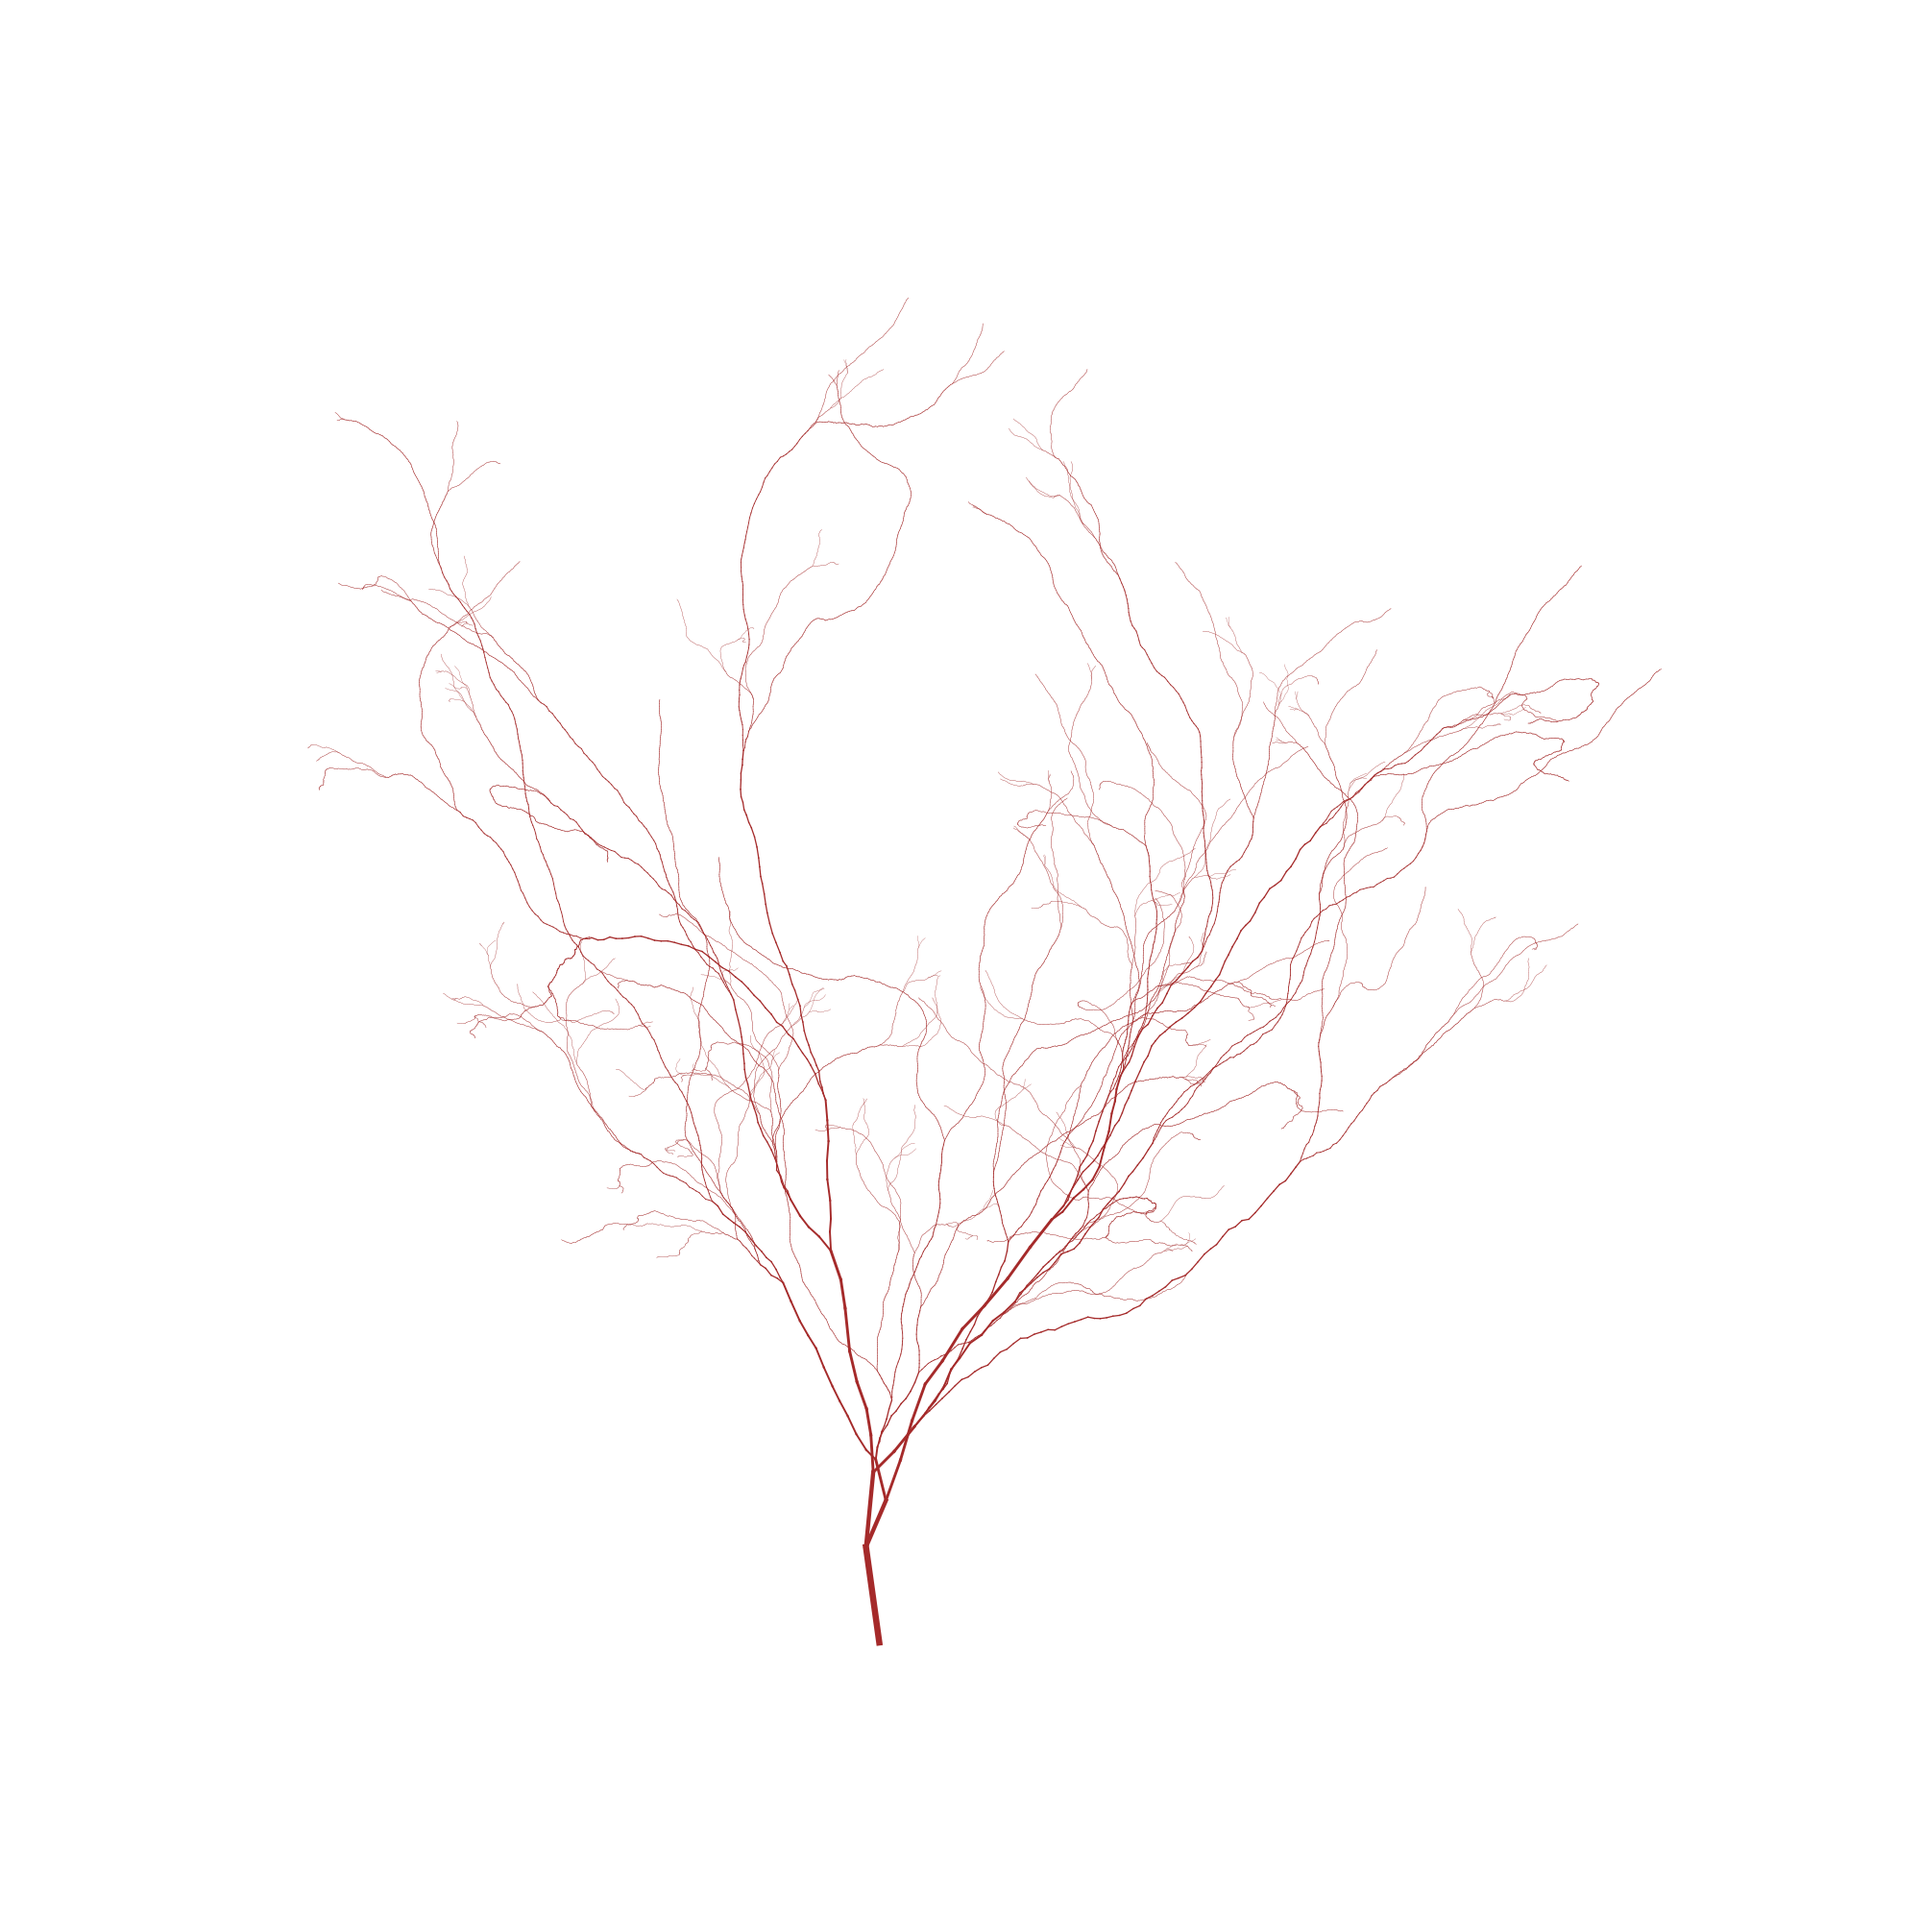
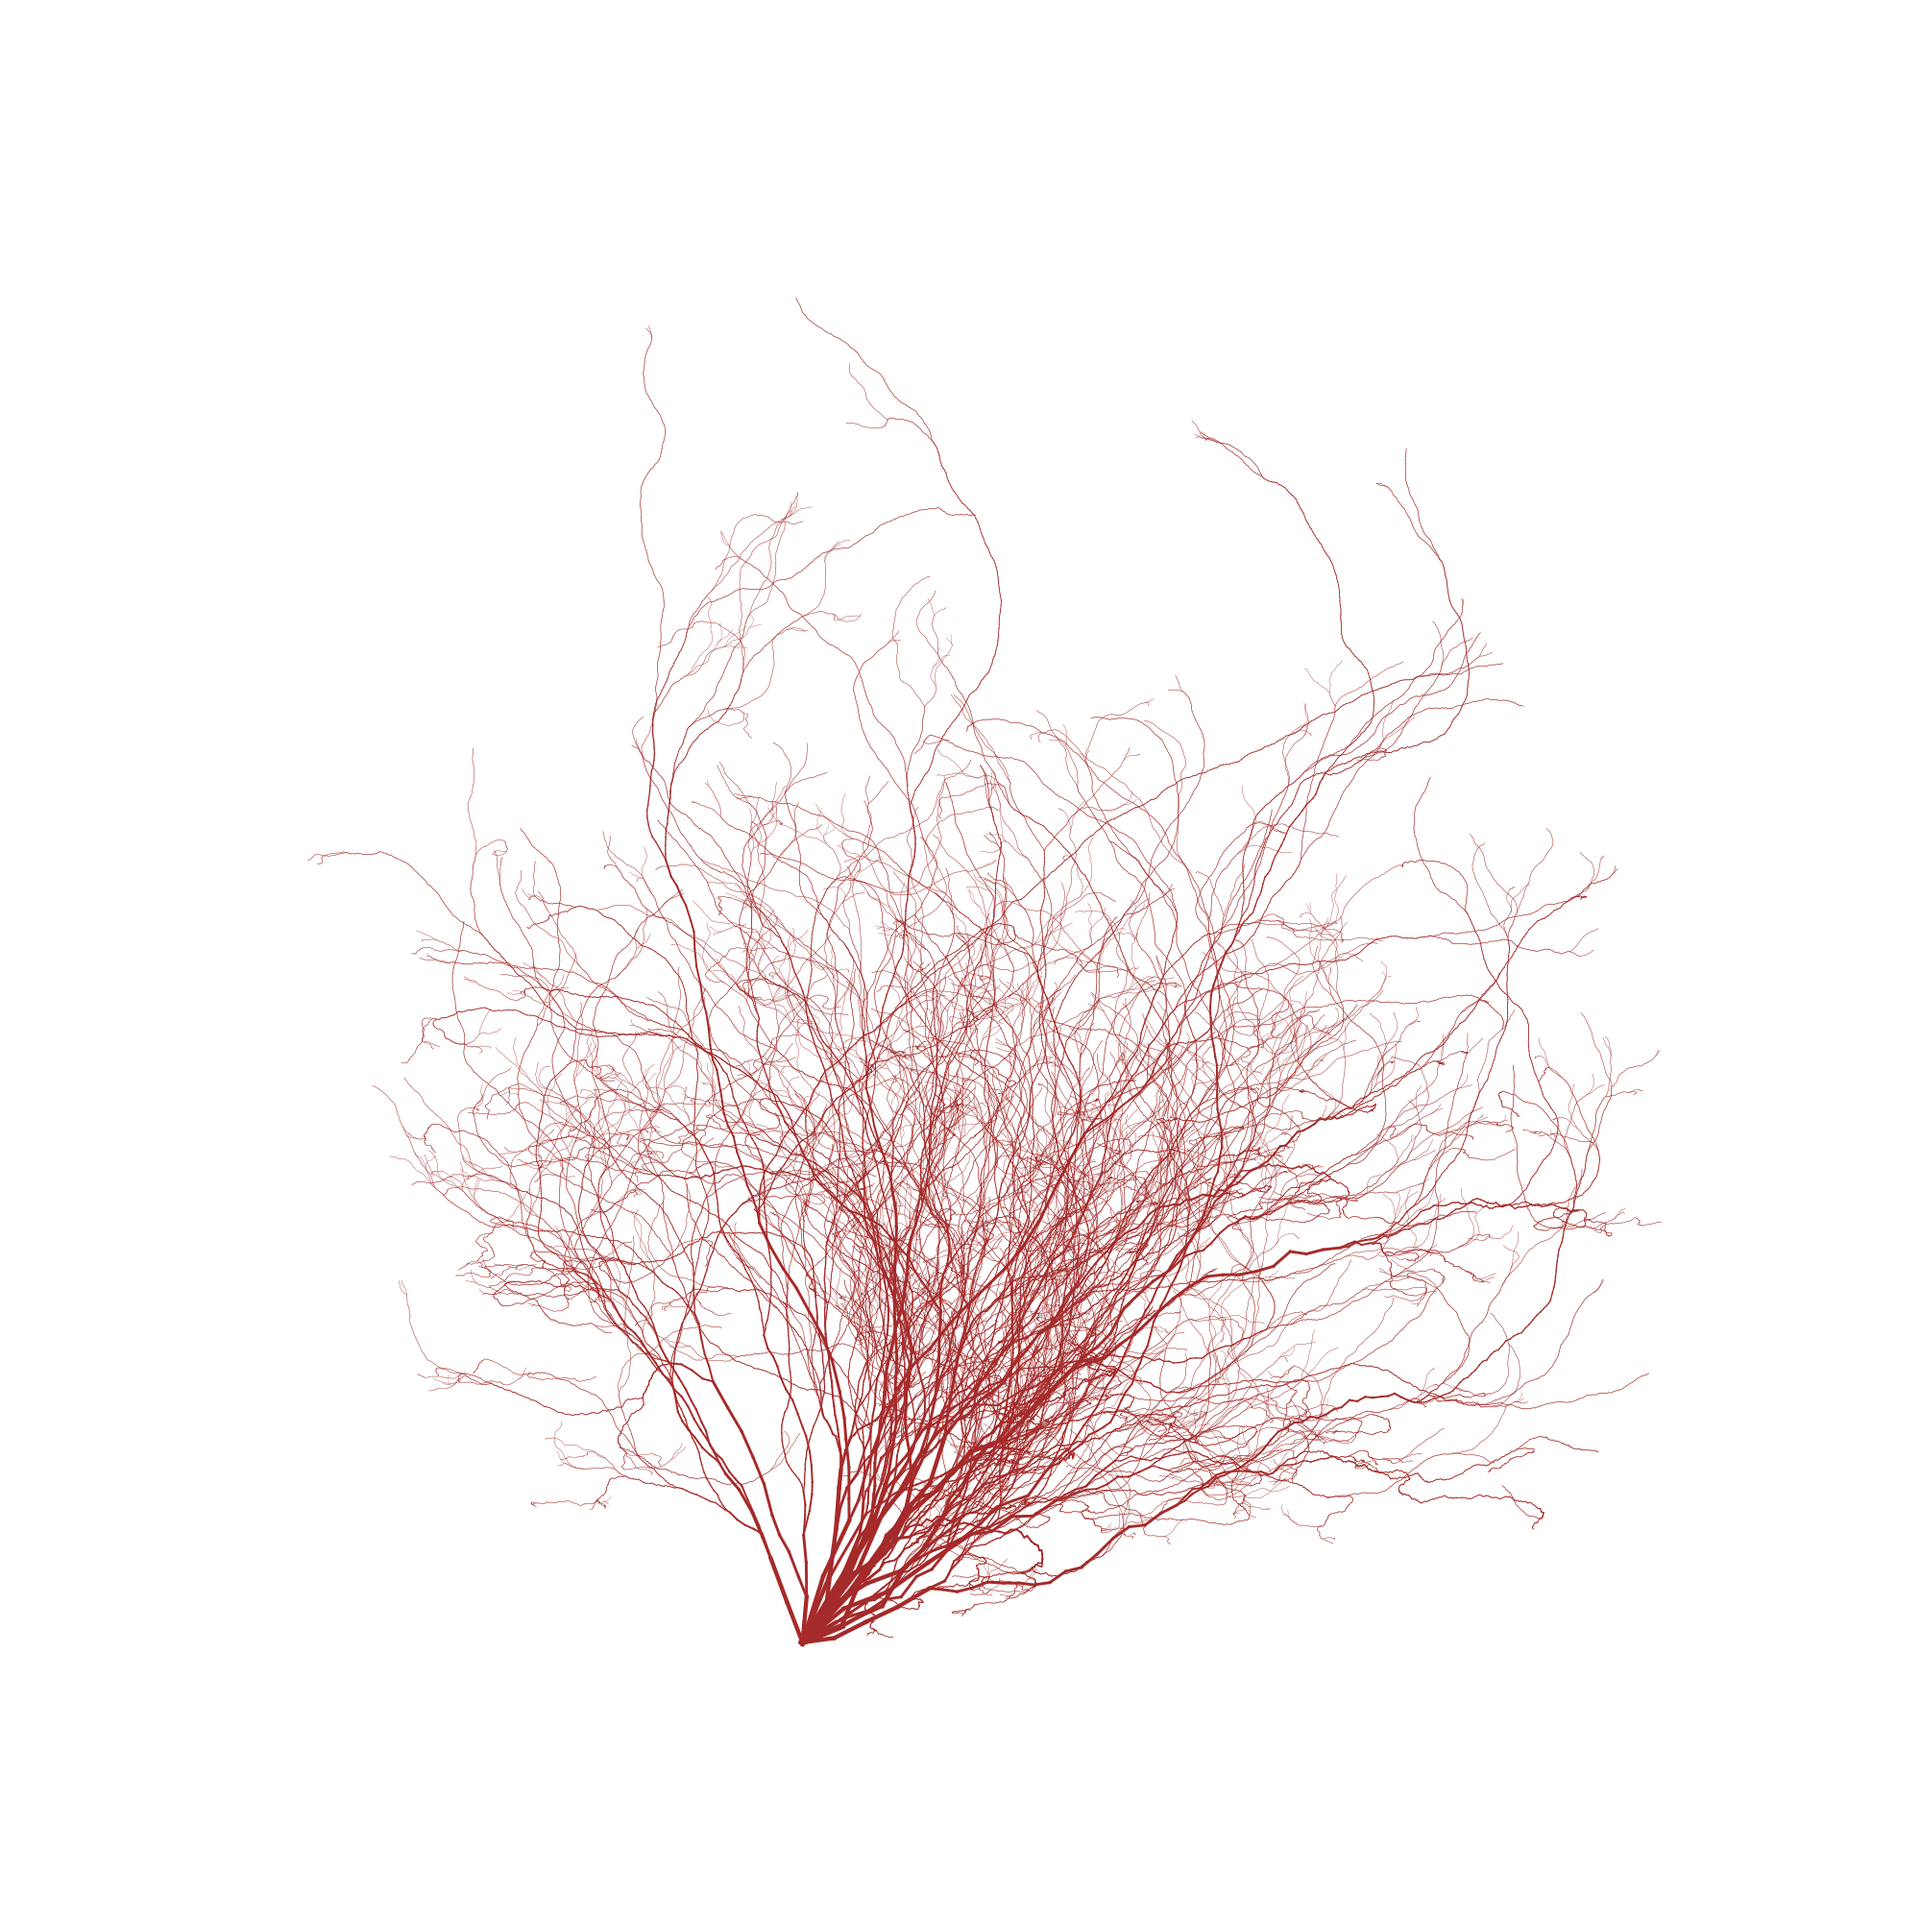
update

diff --git a/main.py b/main.py
@@ -69,5 +69,7 @@ def random_branch(
 
 plt.figure(figsize=(20, 20))
 plt.axis("off")
-random_branch()
+N = 10
+for i in range(N):
+    random_branch(v_init=np.random.random(2))
 plt.savefig("./vessel.png")
